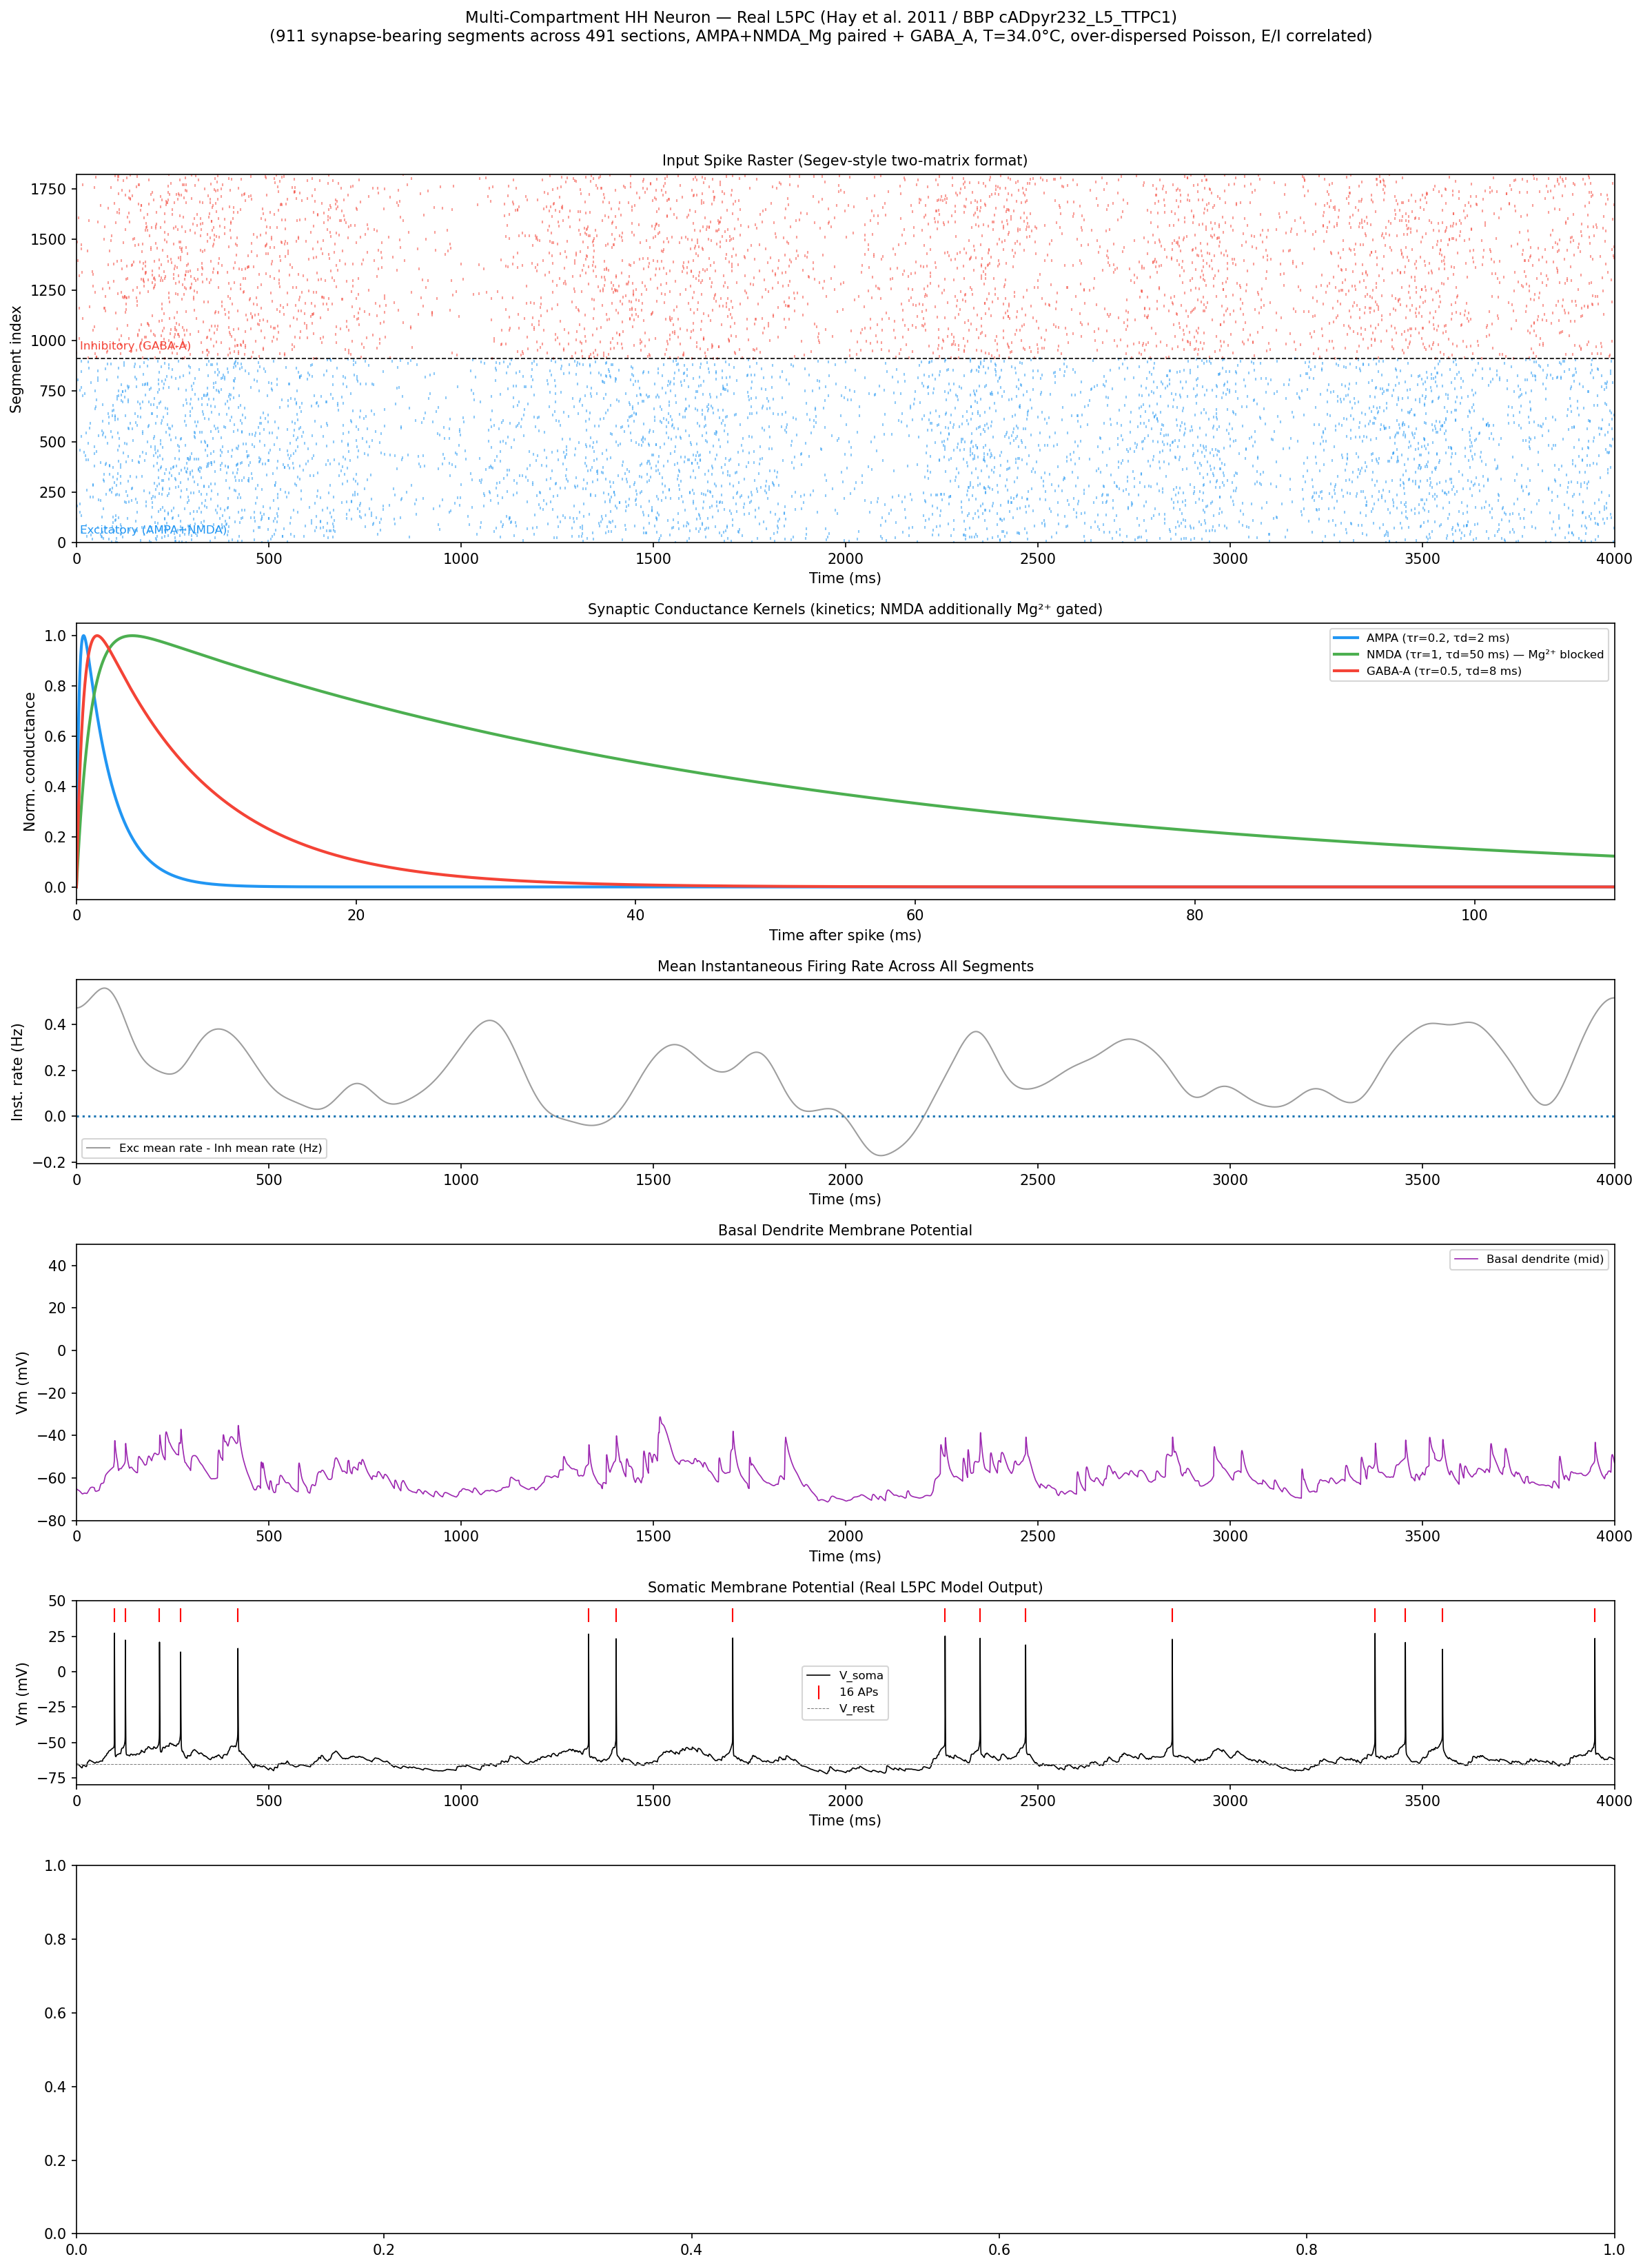
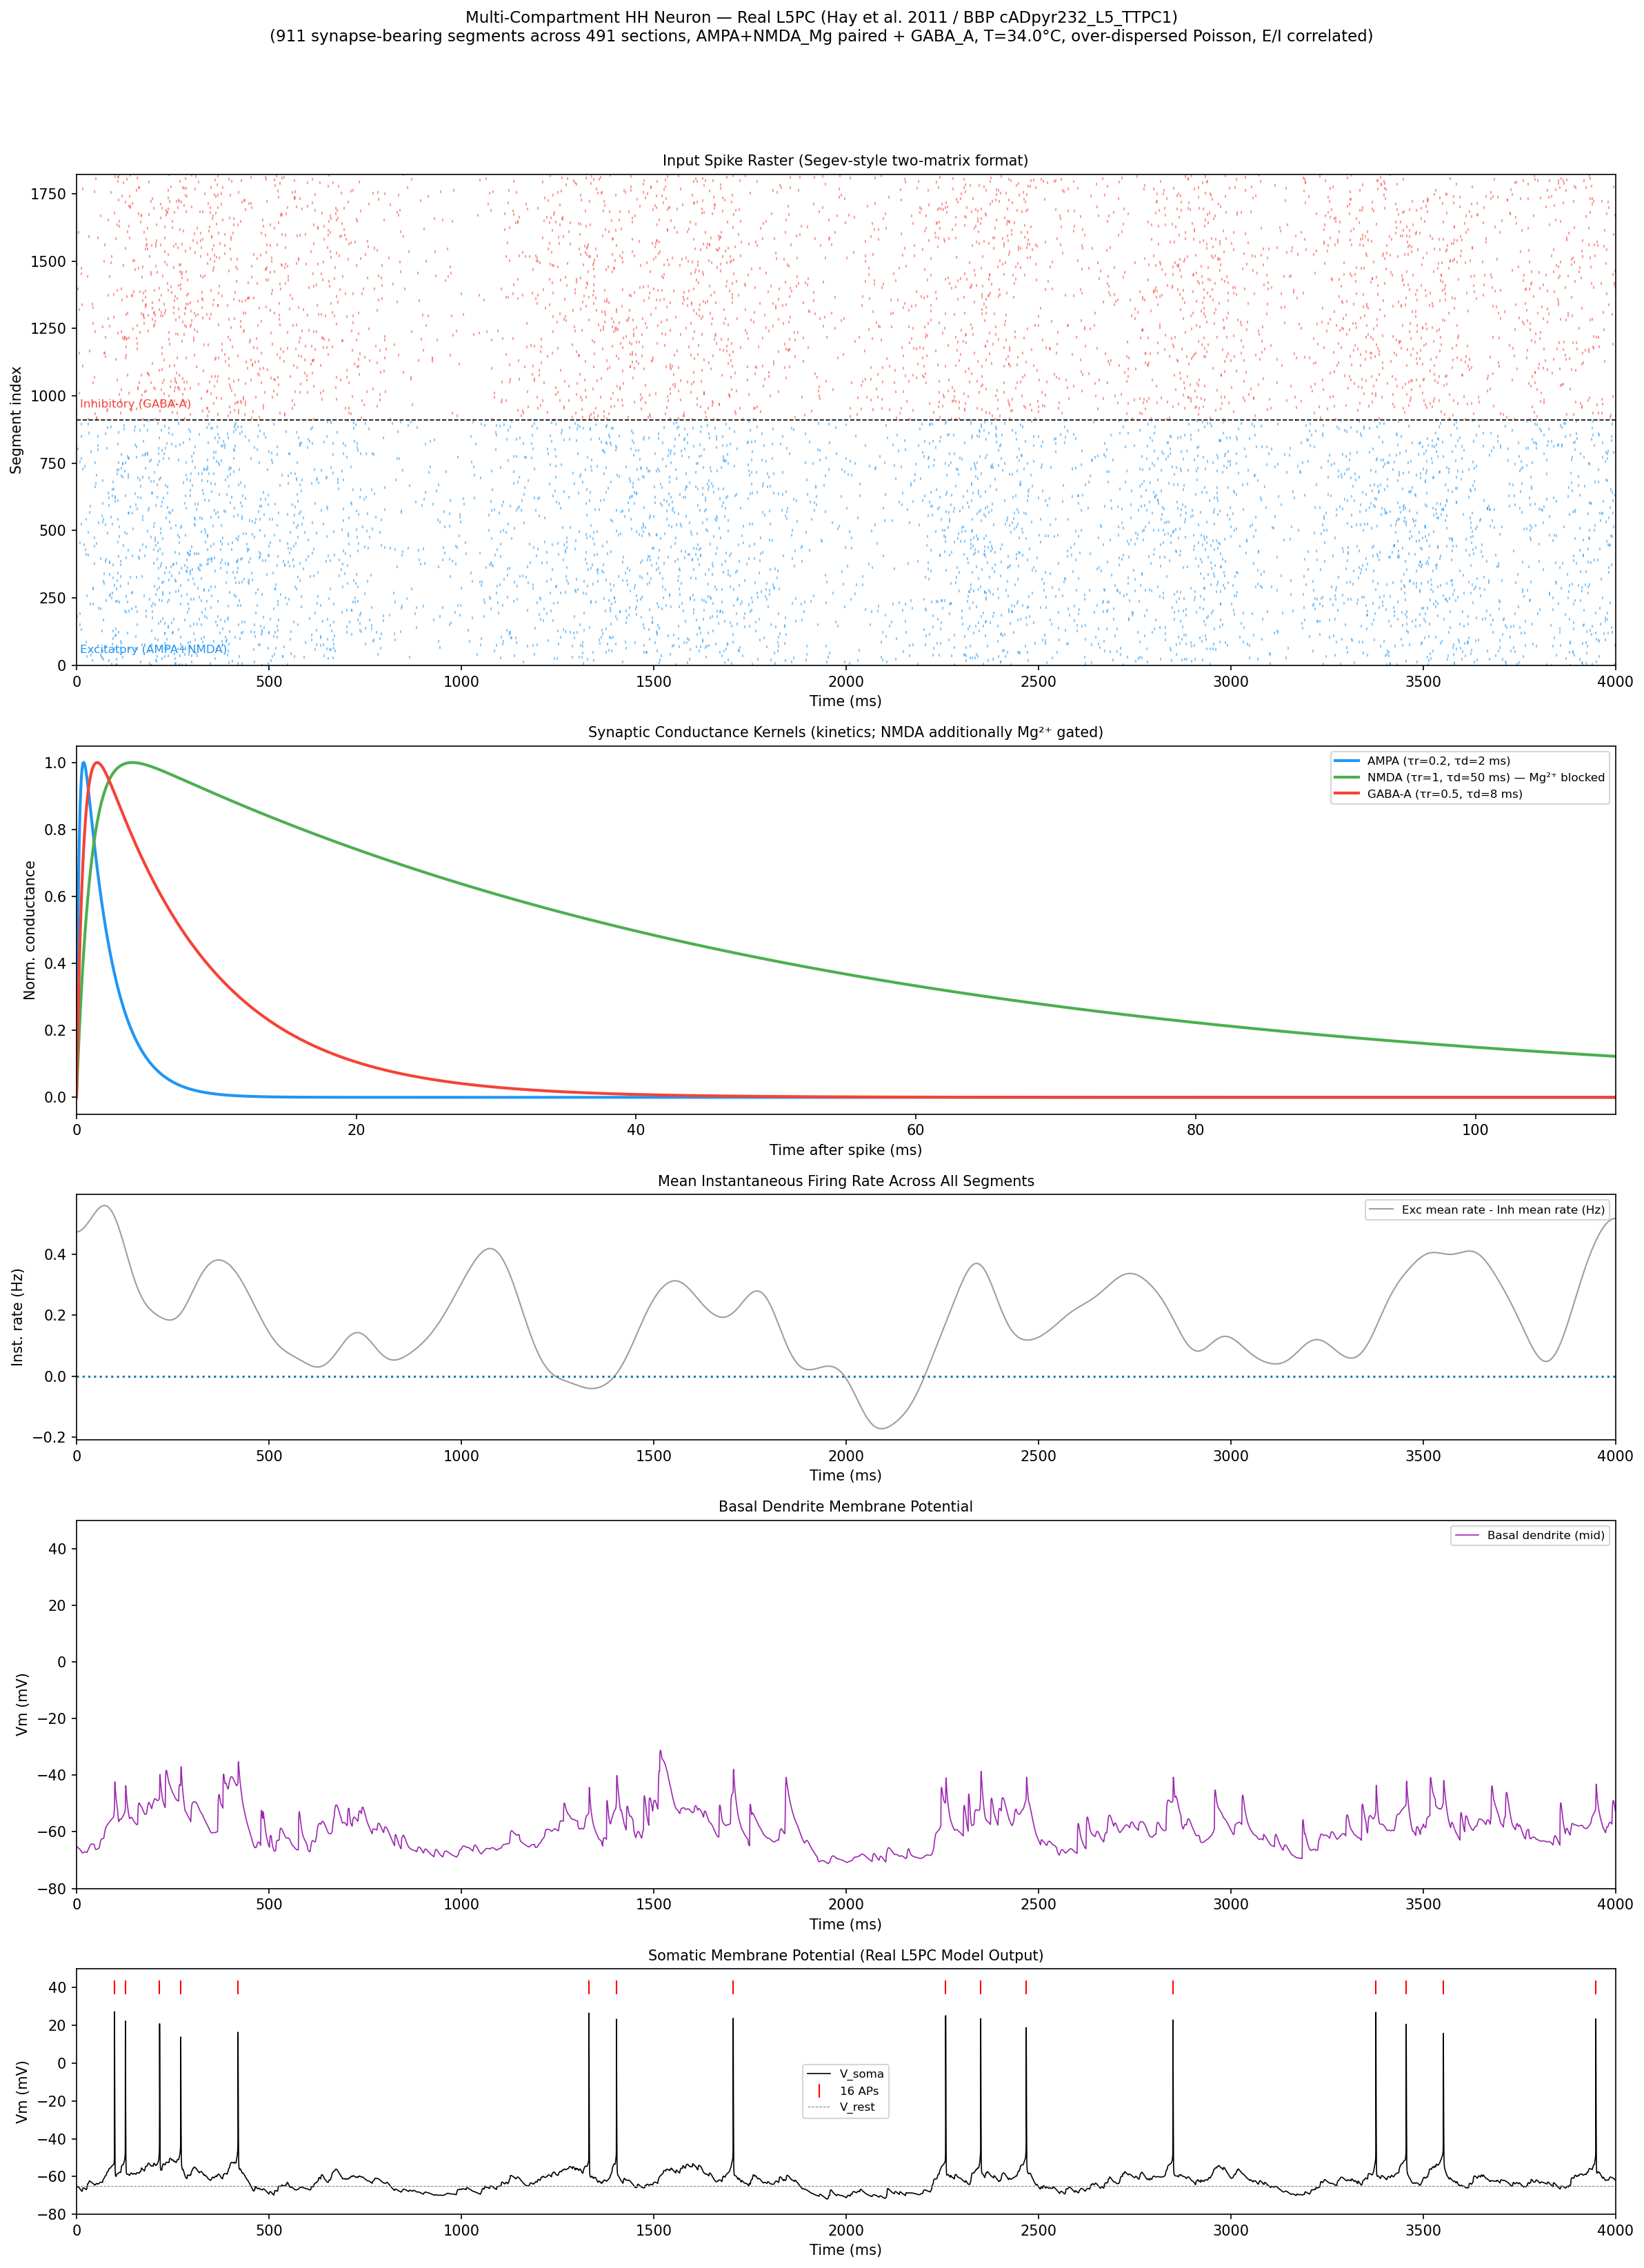
fixed weights

diff --git a/segev_inputs.py b/segev_inputs.py
@@ -50,16 +50,24 @@ def generate_input_spike_trains(
     num_ex_spikes_per_100ms_range, num_ex_inh_spike_diff_per_100ms_range,
     inst_rate_interval_options_ms, temporal_smoothing_sigma_options_ms,
     inst_rate_interval_jitter=20, temporal_smoothing_jitter=20, random_seed=None,
+    total_tree_length_um_override=None,
 ):
     """
     Returns (ex_spikes_bin, inh_spikes_bin), each shape (num_inputs, sim_duration_ms).
+
+    Added 'total_tree_length_um_override' so that two separate calls 
+    (one for an exc pool, one for an inh pool of a different size) 
+    share the same denominator and aren't biased relative to each other 
+    purely by population size. See 'build_population_inputs()'.
     """
     if random_seed is not None:
         np.random.seed(random_seed)
 
     num_segments = len(seg_length_um)
     adjusted_length_um = min_seg_length_um + seg_length_um
-    total_tree_length_um = adjusted_length_um.sum()
+    total_tree_length_um = (total_tree_length_um_override
+                             if total_tree_length_um_override is not None
+                             else adjusted_length_um.sum())
 
     keep_rate_const_ms = inst_rate_interval_options_ms[
         np.random.randint(len(inst_rate_interval_options_ms))]
@@ -134,7 +142,19 @@ def build_population_inputs(
     call sized for the excitatory pool, one (with an offset seed) sized for
     the inhibitory pool. Shared by the LIF and HH point-neuron models, which
     were previously carrying identical copies of this logic.
+
+    The exc and inh calls share one combined 'total_tree_length_um_override'
+    (based on num_exc_inputs + num_inh_inputs together) rather than each
+    normalizing by its own pool size. Without this, an asymmetric split (e.g.
+    500 exc vs. 125 inh) inflates the smaller pool's per-input rate purely
+    because it's dividing by a smaller total -- a structural bias, not a
+    reflection of num_ex_spikes_per_100ms_range vs. the inh diff range. With a
+    shared denominator, the exc/inh balance reflects only the sampled rate
+    epochs, matching how the multicompartment model (a single call, one
+    shared seg_length_um array) behaves.
     """
+    shared_total_length_um = (min_seg_length_um + 1.0) * (num_exc_inputs + num_inh_inputs)
+
     ex_bin, _ = generate_input_spike_trains(
         sim_duration_ms=sim_duration_ms, seg_length_um=np.ones(num_exc_inputs),
         min_seg_length_um=min_seg_length_um,
@@ -145,6 +165,7 @@ def build_population_inputs(
         inst_rate_interval_jitter=inst_rate_interval_jitter,
         temporal_smoothing_jitter=temporal_smoothing_jitter,
         random_seed=random_seed,
+        total_tree_length_um_override=shared_total_length_um,
     )
     _, inh_bin = generate_input_spike_trains(
         sim_duration_ms=sim_duration_ms, seg_length_um=np.ones(num_inh_inputs),
@@ -156,6 +177,7 @@ def build_population_inputs(
         inst_rate_interval_jitter=inst_rate_interval_jitter,
         temporal_smoothing_jitter=temporal_smoothing_jitter,
         random_seed=None if random_seed is None else random_seed + 1,
+        total_tree_length_um_override=shared_total_length_um,
     )
     return ex_bin, inh_bin
 

diff --git a/lif_point_neuron_simulation.py b/lif_point_neuron_simulation.py
@@ -34,8 +34,8 @@ E_INH_MV  = -75.0
 # synaptic kinetics (single-exponential conductance, per-input peak in uS)
 TAU_EXC_MS = 2.0
 TAU_INH_MS = 8.0
-W_EXC_US = 0.0031     # tuned so all three models land near ~4 Hz output
-W_INH_US = 0.0032
+W_EXC_US = 0.0025
+W_INH_US = 0.010
 
 # Segev input-statistics knobs (identical framework to the multicompartment model)
 MIN_SEG_LENGTH_UM = 10.0
@@ -106,7 +106,7 @@ def run_lif(ex_bin_1ms, inh_bin_1ms):
 
 def plot_results(t_ms, v, spike_times, ex_bin_1ms, inh_bin_1ms, ex_count, inh_count):
     fig, axes = plt.subplots(5, 1, figsize=(14, 12),
-                              gridspec_kw={'height_ratios': [2, 1, 1, 2, 2]})
+                              gridspec_kw={'height_ratios': [2, 1, 1, 2, 2.5]})
     fig.suptitle(f'LIF Point Neuron -- {NUM_EXC_INPUTS} exc + {NUM_INH_INPUTS} inh Segev-style inputs',
                   fontsize=12)
 
@@ -140,8 +140,8 @@ def plot_results(t_ms, v, spike_times, ex_bin_1ms, inh_bin_1ms, ex_count, inh_co
     inh_mean = inh_bin_1ms.mean(axis=0).astype(float)
     ax.plot(gaussian_filter1d(exc_mean - inh_mean, 50) * 1000, '#9E9E9E', lw=1,
             label='Exc mean rate - Inh mean rate (Hz)')
-    ax.axhline(y=0, linestyle=':')
     ax.set_ylabel('Rate (Hz)')
+    ax.axhline(y=0, linestyle=':')
     ax.legend(fontsize=8)
     ax.set_xlim(0, SIM_DURATION_MS)
     ax.set_title('Mean Instantaneous Input Rate', fontsize=10)

diff --git a/hh_neuron_simulation.py b/hh_neuron_simulation.py
@@ -37,8 +37,8 @@ SYNAPSE_PARAMS = {
     "GABA_A": DEFAULT_SYNAPSE_KINETICS["GABA_A"],
 }
 
-AMPA_WEIGHT_US  = 0.040
-GABAA_WEIGHT_US = 0.003
+AMPA_WEIGHT_US  = 0.019
+GABAA_WEIGHT_US = 0.005
 
 # ── Segev-style rate parameters ──────────────────────────────────────────────
 